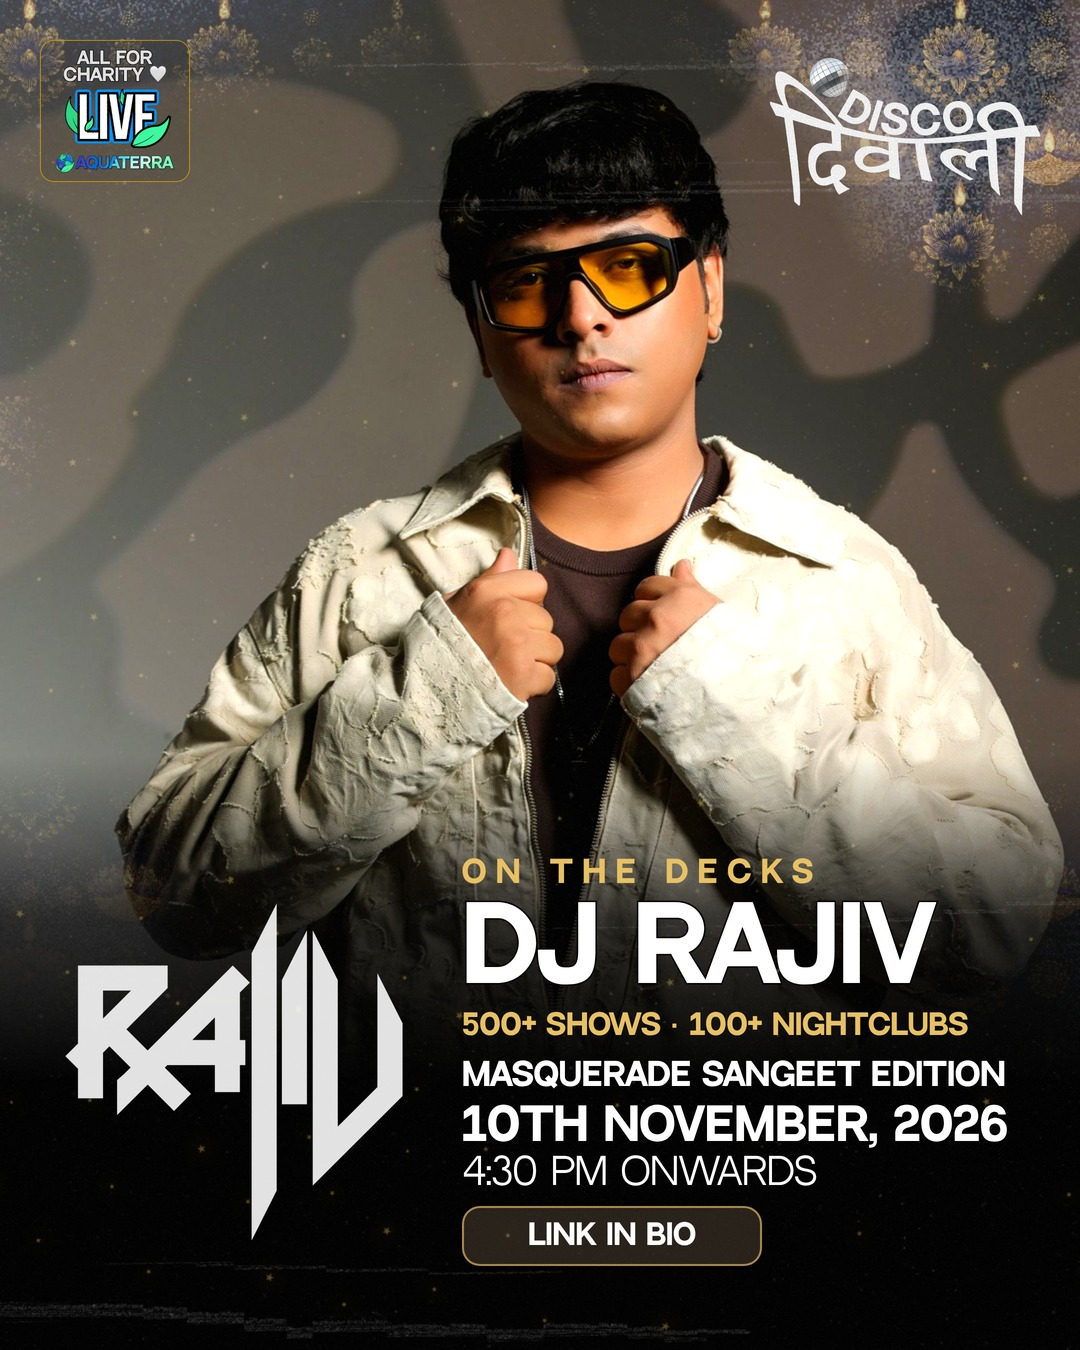
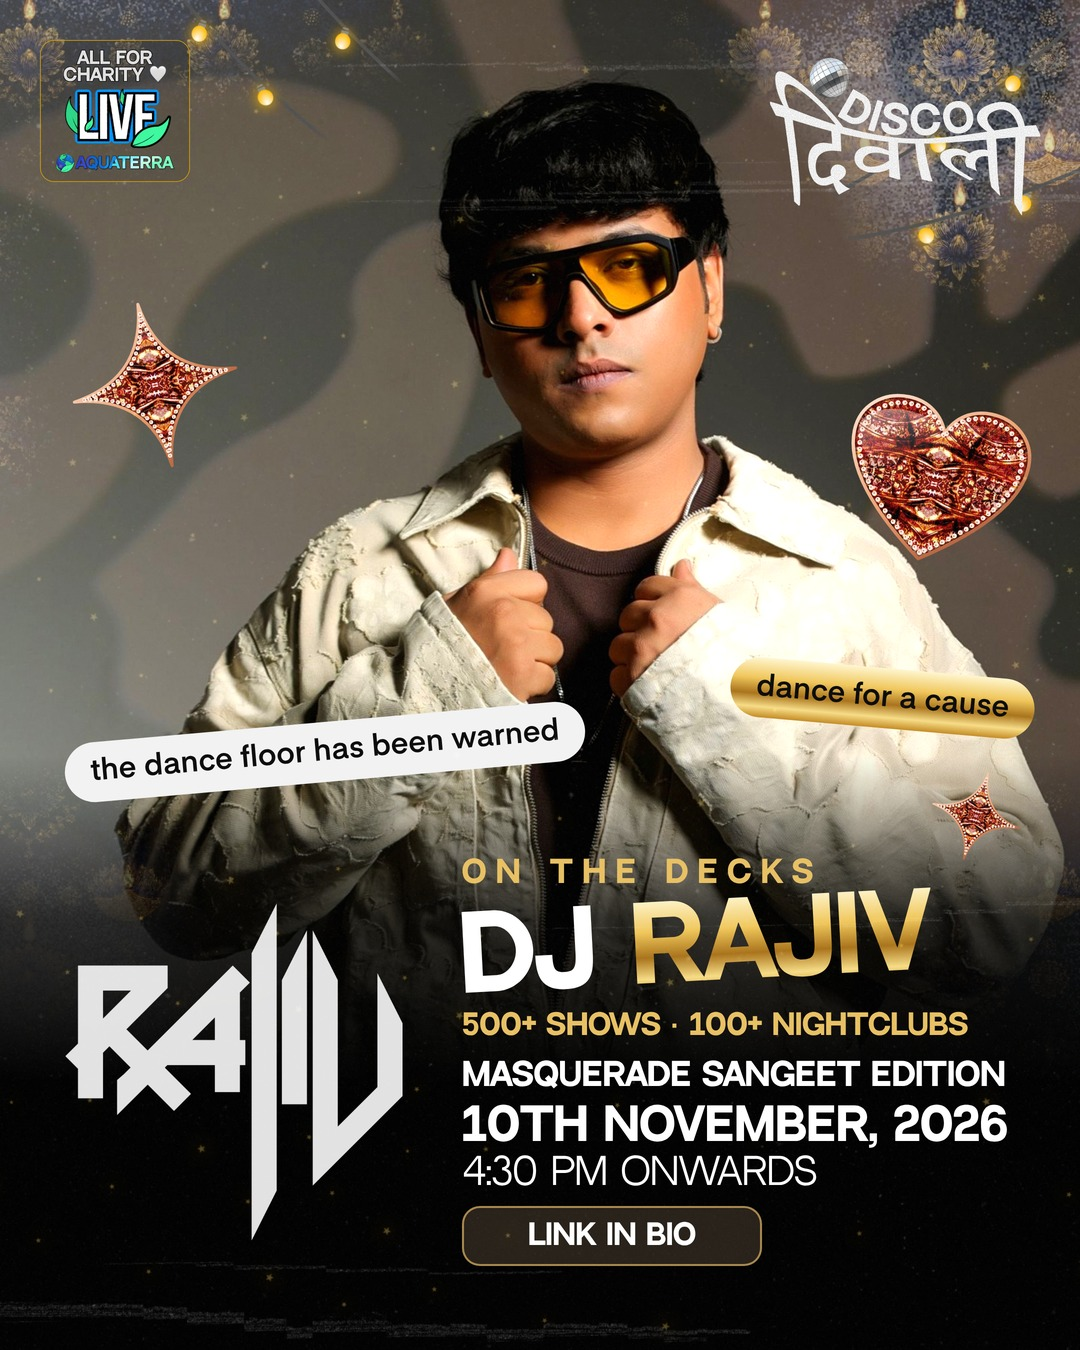
DJ Rajiv poster: fun pass (copper stickers, chips, gold-foil name, masked lights)
FUN=1 default adds shadowless copper stickers, two lowercase chips, a tilted gold-foil
name and string lights masked off his face. FUN=0 reproduces the calm v3, exported as
dj_rajiv_feed_calm.jpg.

Claude-Session: https://claude.ai/code/session_015kc4KVAVHAeNHn96CgGETW

diff --git a/scratchpad/dd_dj_rajiv.py b/scratchpad/dd_dj_rajiv.py
@@ -26,7 +26,10 @@ OUT = os.path.join(ROOT, "out", "discodiwali", "dj_rajiv")
 VER = os.environ.get("VER", "v1")
 STROKE = "color:#fff;-webkit-text-stroke:3px #000;paint-order:stroke fill;"
 GOLD_LIT = "#E8C063"
-LIGHTS = os.environ.get("LIGHTS", "0") == "1"
+FUN = os.environ.get("FUN", "1") == "1"                # v4 (user, 2026-10-23: "make the poster fun and engaging"): FUN=0 reproduces v3
+LIGHTS = os.environ.get("LIGHTS", "1" if FUN else "0") == "1"
+FOIL = ("linear-gradient(180deg,#FFF6CF 0%,#F0C65A 34%,#A8721A 60%,#F7DC86 82%,#C48A22 100%)")   # same gold as Poster.FOIL
+sys.path.insert(0, os.path.dirname(os.path.abspath(__file__)))
 
 PHOTO = os.path.join(ROOT, "engine", "assets", "disco_diwali", "dj_rajiv", "photo_collar.jpg")
 
@@ -44,7 +47,10 @@ def build():
     P.append('<div data-tag="plate" style="position:absolute;inset:0;z-index:4;pointer-events:none;background:linear-gradient(180deg,rgba(0,0,0,0) 0%,rgba(0,0,0,0) 56%,'
              'rgba(0,0,0,.78) 68%,#000 80%)"></div>')
     if LIGHTS:
-        P.append(f'<img data-tag="lights" src="{dd.uri("string_lights.png")}" style="position:absolute;left:160px;top:-53px;width:1045px;z-index:5">')
+        # the string sags straight across a centred head (v4 first pass put bulbs on his sunglasses), so clear a transparent ellipse over the head: lights hang either side of him
+        # mask coordinates are in the LIGHTS IMAGE's own box (1045x346 at canvas 160,-53), not the canvas: head centre canvas (562,247) -> image (402,300)
+        lm = "radial-gradient(ellipse 300px 215px at 402px 300px,transparent 0%,transparent 92%,#000 100%)"
+        P.append(f'<img data-tag="lights" src="{dd.uri("string_lights.png")}" style="position:absolute;left:160px;top:-53px;width:1045px;z-index:5;-webkit-mask-image:{lm};mask-image:{lm}">')
     P.append(f'<img data-tag="plate" src="{dd.uri("sparkles.png")}" style="position:absolute;inset:0;width:{W}px;height:{H}px;object-fit:cover;z-index:30;mix-blend-mode:screen;opacity:.5;pointer-events:none">'
              f'<img data-tag="plate" src="{dd.uri("grain.png")}" style="position:absolute;inset:0;width:{W}px;height:{H}px;object-fit:cover;z-index:31;mix-blend-mode:screen;opacity:.35;pointer-events:none">')
 
@@ -70,7 +76,13 @@ def build():
                  f'line-height:1;text-transform:uppercase;{STROKE}{css}z-index:20">{txt}</div>')
         els.append((tag, cx, top, cw, h))
     line("eyebrow", "On the decks", 858, 30, 600, 32, f"letter-spacing:.32em;color:{GOLD_LIT};-webkit-text-stroke:0;")
-    line("name", "DJ Rajiv", 898, 100, 700, 100)
+    if FUN:   # v4: DJ in white, RAJIV in gold foil, the whole name tilted up to the right (rotate about the left baseline, so only the right end lifts)
+        P.append(f'<div data-tag="name" style="position:absolute;left:{cx}px;top:908px;width:{cw}px;white-space:nowrap;font-family:var(--d);font-weight:700;font-size:100px;line-height:1;'
+                 f'text-transform:uppercase;color:#fff;transform:rotate(-3deg);transform-origin:0 100%;z-index:20">DJ <span style="background:{FOIL};-webkit-background-clip:text;background-clip:text;'
+                 f'-webkit-text-fill-color:transparent;color:transparent">Rajiv</span></div>')
+        els.append(("name", cx, 880, cw, 128))
+    else:
+        line("name", "DJ Rajiv", 898, 100, 700, 100)
     line("stat", "500+ shows &middot; 100+ nightclubs", 1012, 28, 600, 30, f"color:{GOLD_LIT};-webkit-text-stroke:0;")
     line("edition", "Masquerade Sangeet Edition", 1060, 31, 600, 34)
     line("date", "10th November, 2026", 1104, 44, 700, 46)
@@ -79,6 +91,15 @@ def build():
             'background:rgba(236,200,150,.16);z-index:20;display:flex;align-items:center;justify-content:center;font-family:var(--d);font-weight:600;font-size:28px;'
             'line-height:1;text-transform:uppercase;color:#fff">Link in bio</div>')
     P.append(pill); els.append(("linkpill", cx, 1206, 300, 60))
+    if FUN:
+        import dd_copper as cp
+        # copper stickers, NO drop shadow (user, 2026-10-23: "remove the shadow and shade"), tilted, in the free wall either side of his head
+        for tag, fn, x, y, size, rot, h in (("star1", cp.star, 70, 300, 170, -12, 170), ("heart", cp.heart, 836, 396, 196, 12, 176), ("star2", cp.star, 930, 770, 92, 16, 92)):
+            P.append(f'<div data-tag="{tag}" style="position:absolute;left:{x}px;top:{y}px;z-index:15">{fn(size, rot, u=tag, shadow=False)}</div>'); els.append((tag, x, y, size, h))
+        # two lowercase chips (VOICE.md: events recap, general followers, loud and playful, 2 chips). Only claims already supplied: it is for charity, it is a dance floor
+        chip = ("font-family:var(--e);font-weight:600;font-size:30px;line-height:1;white-space:nowrap;color:#0A0A0A;padding:15px 26px;border-radius:999px;z-index:16;")
+        P.append(f'<div data-tag="chip1" style="position:absolute;left:64px;top:722px;{chip}background:#F2F2F2;transform:rotate(-5deg)">the dance floor has been warned</div>'); els.append(("chip1", 64, 700, 526, 105))
+        P.append(f'<div data-tag="chip2" style="position:absolute;left:730px;top:668px;{chip}background:{FOIL};transform:rotate(5deg)">dance for a cause</div>'); els.append(("chip2", 730, 654, 310, 90))
     return "".join(P), els, 1266
 
 

diff --git a/brain/DISCO_DIWALI.md b/brain/DISCO_DIWALI.md
@@ -128,3 +128,5 @@ Always LOOK at the PNG before it ships (CLAUDE.md sec 3).
 
 ### DJ launch poster: DJ Rajiv (2026-10-23) — `scratchpad/dd_dj_rajiv.py`, JPEG in `sample_outputs/disco_diwali_dj_rajiv/`
 Feed 1080x1350 from the user's reference (a "know your artist" poster: giant name behind the DJ, bio, stat, sponsors, address) and the artist's supplied assets (`engine/assets/disco_diwali/dj_rajiv/`: studio photo, his RAJIV wordmark in red and off-white). Photo picked for marketing: the cream-jacket collar-hold frame (cream and brown match the copper and gold; frontal, centred face). The studio photos are flat, so there is no cutout: the name does NOT sit behind him. The photo is full bleed and UNGRADED (user, 2026-10-23: "remove the shadow and shade": no navy multiply, no top scrim, no wordmark drop shadow; v1 and v2 had them), with only a short ink fade from the chest down so the type reads, with the wordmark bottom left and the type stack bottom right. LIVE badge top left, the lockup (with ball) top right. Facts printed: DJ Rajiv, Masquerade Sangeet Edition, 10th November 2026, 4:30 PM onwards, link in bio, and "500+ shows · 100+ nightclubs" from his own 2025 press kit (self-reported: attribute it, do not state it as AQ's claim). Left off on purpose: his age (21 in a 2025 kit), contact details, other artists' names, the kit's concert photos (Zomato branding), a bio paragraph and sponsors (none supplied). The wordmark is recoloured from his red to the format's off-white. Lesson (PROVEN): the diya plate screen-blended over a portrait prints lotuses across the face; mask it with a radial transparent ellipse over the head. A navy multiply over a studio portrait dulls the face and turns a cream garment lavender-grey; the user asked for it gone, so leave the photo as shot. Open: a cutout would allow the reference's name-behind-the-DJ layout (needs a background-removal tool, none installed here). Photo usage rights are unconfirmed.
+
+**Fun pass (user, 2026-10-23: "make the poster fun and engaging"), `FUN=1` default, `FUN=0` reproduces the calm v3 (`dj_rajiv_feed_calm.jpg`).** Added: string lights, three shadowless copper stickers (two four-point stars, a heart for the charity link) tilted into the free wall beside his head, two lowercase tilted chips ("the dance floor has been warned", "dance for a cause"; VOICE.md allows 2 chips for events/general followers; both rest only on supplied facts), DJ in white and RAJIV in gold foil, the name tilted -3 degrees. Lessons (PROVEN): a string-light PNG sags across a centred head and puts bulbs on the sunglasses, so mask it with a transparent ellipse over the head; CSS mask percentages resolve against the masked ELEMENT's box (1045x346 for the lights), not the canvas, so the first mask silently missed (use px in the element's own space). The `copper` stickers take `shadow=False`; keep it off wherever the user has asked for no shadow.
